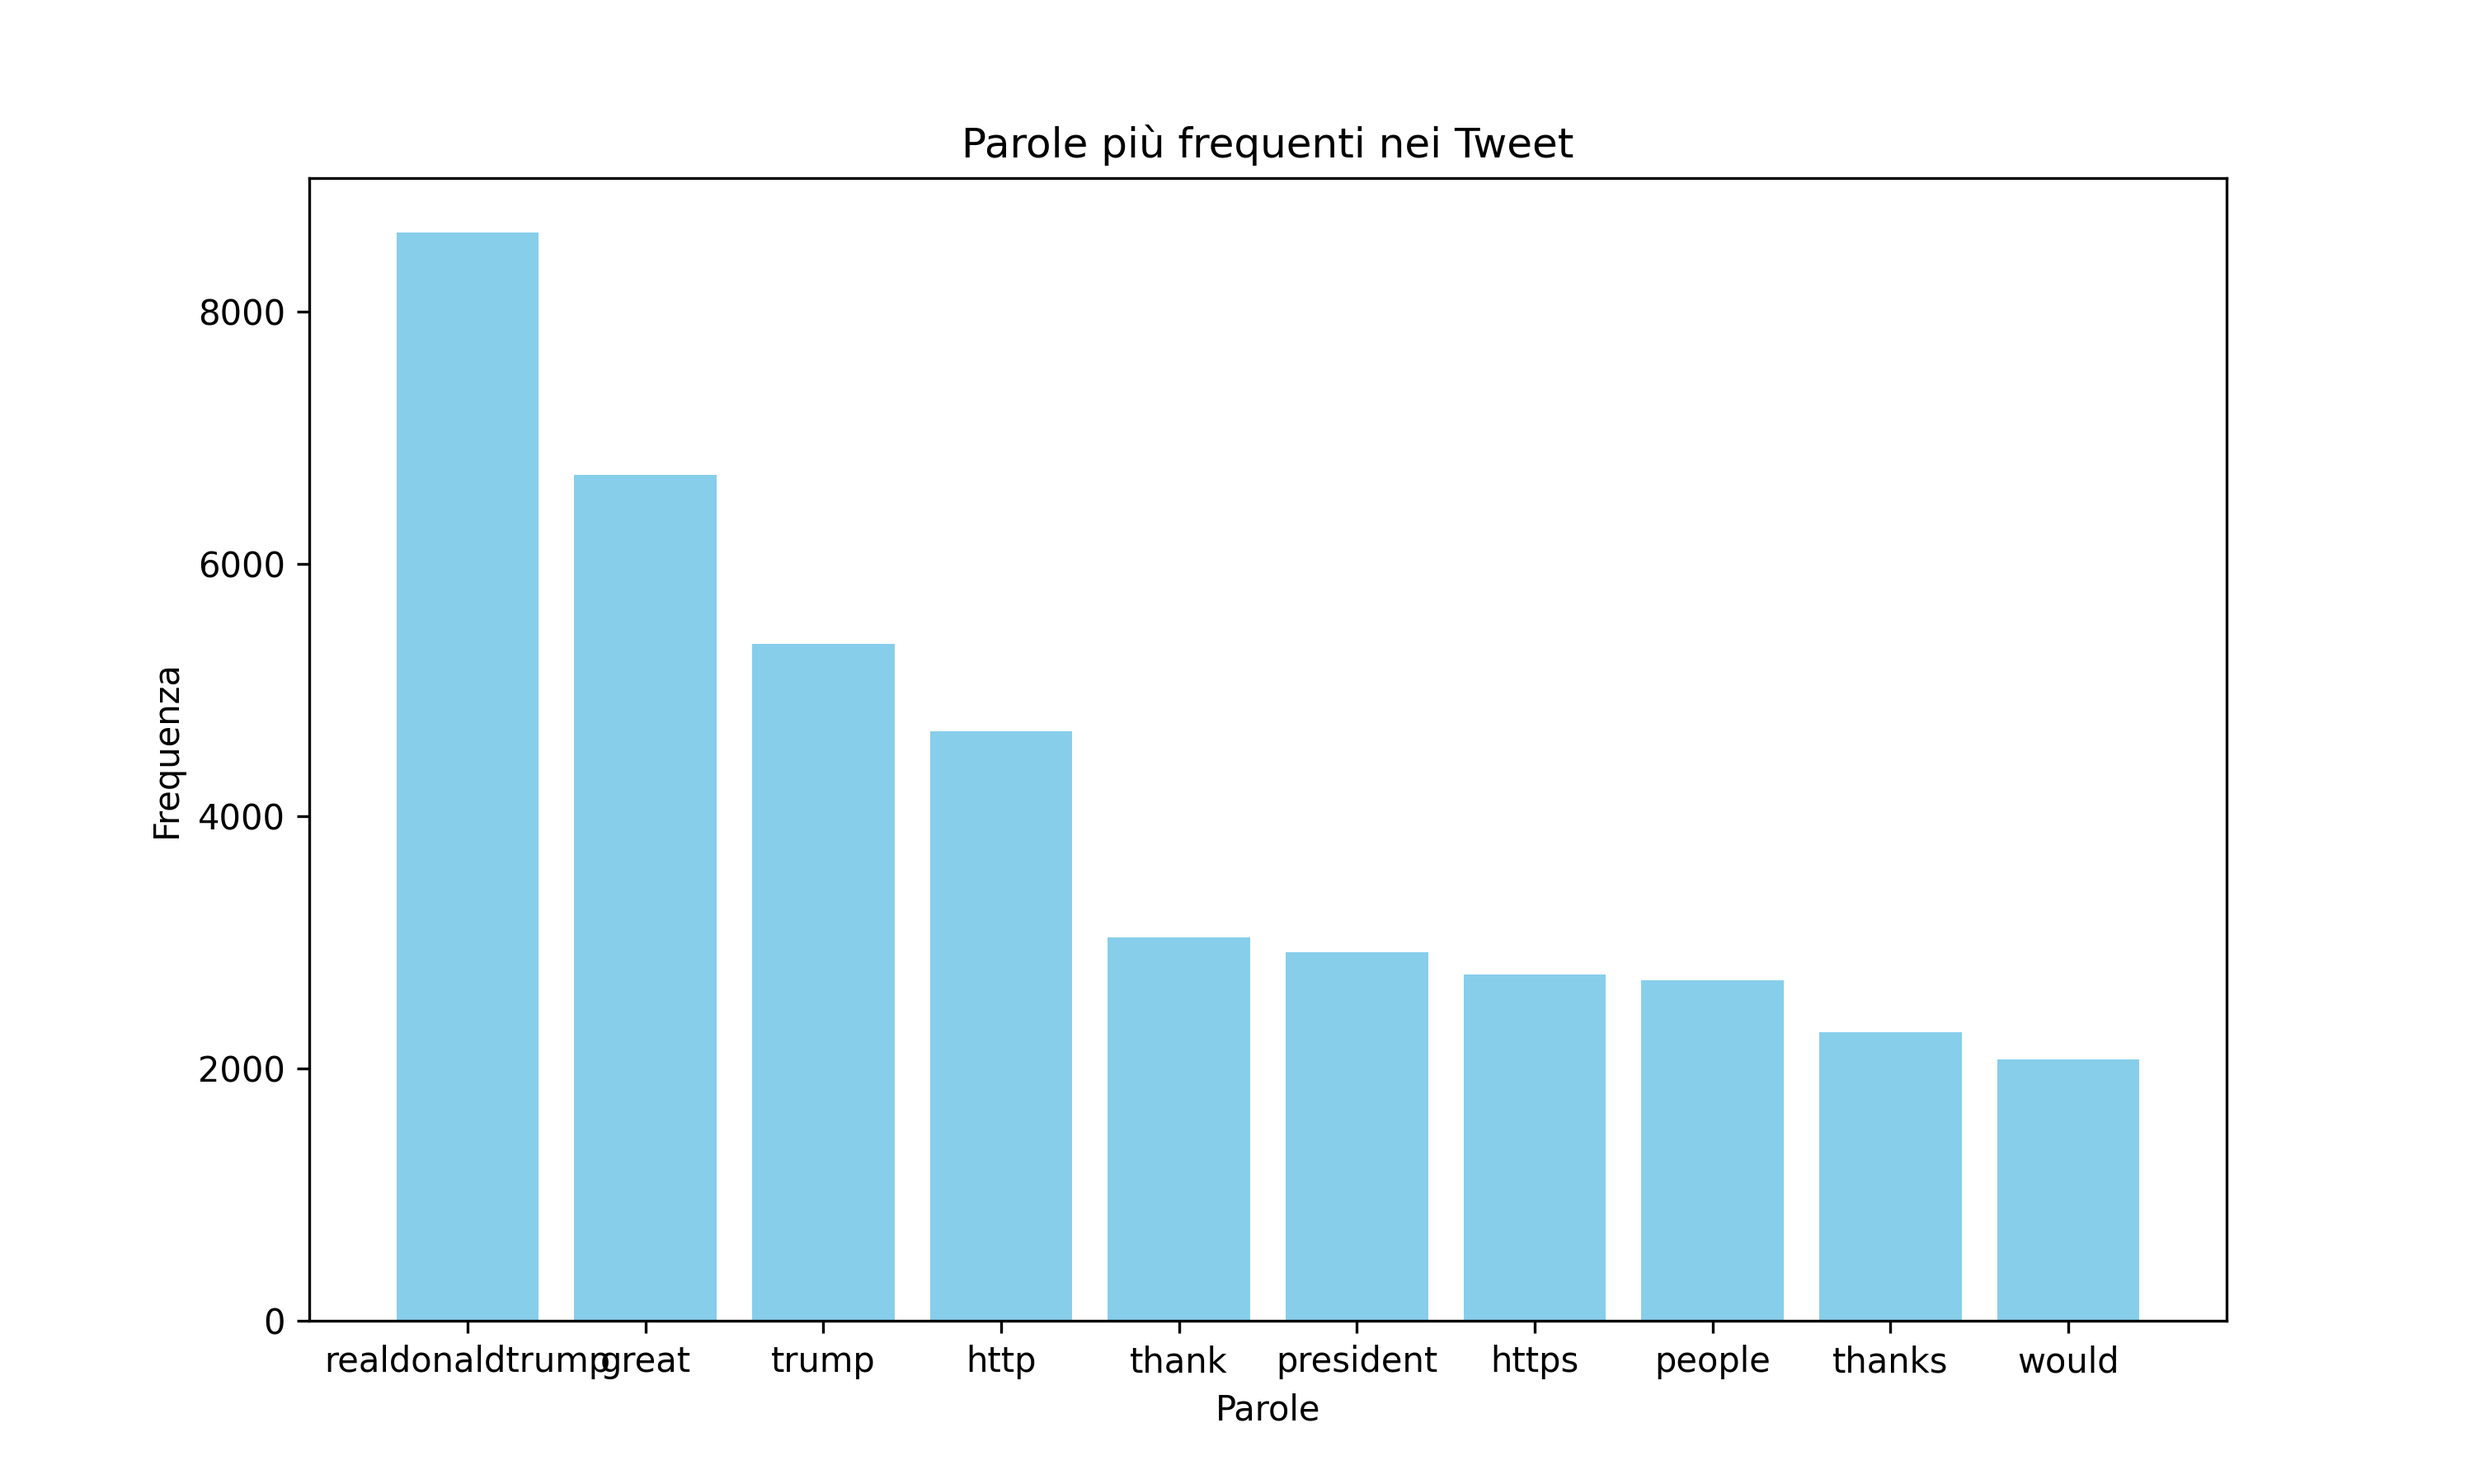
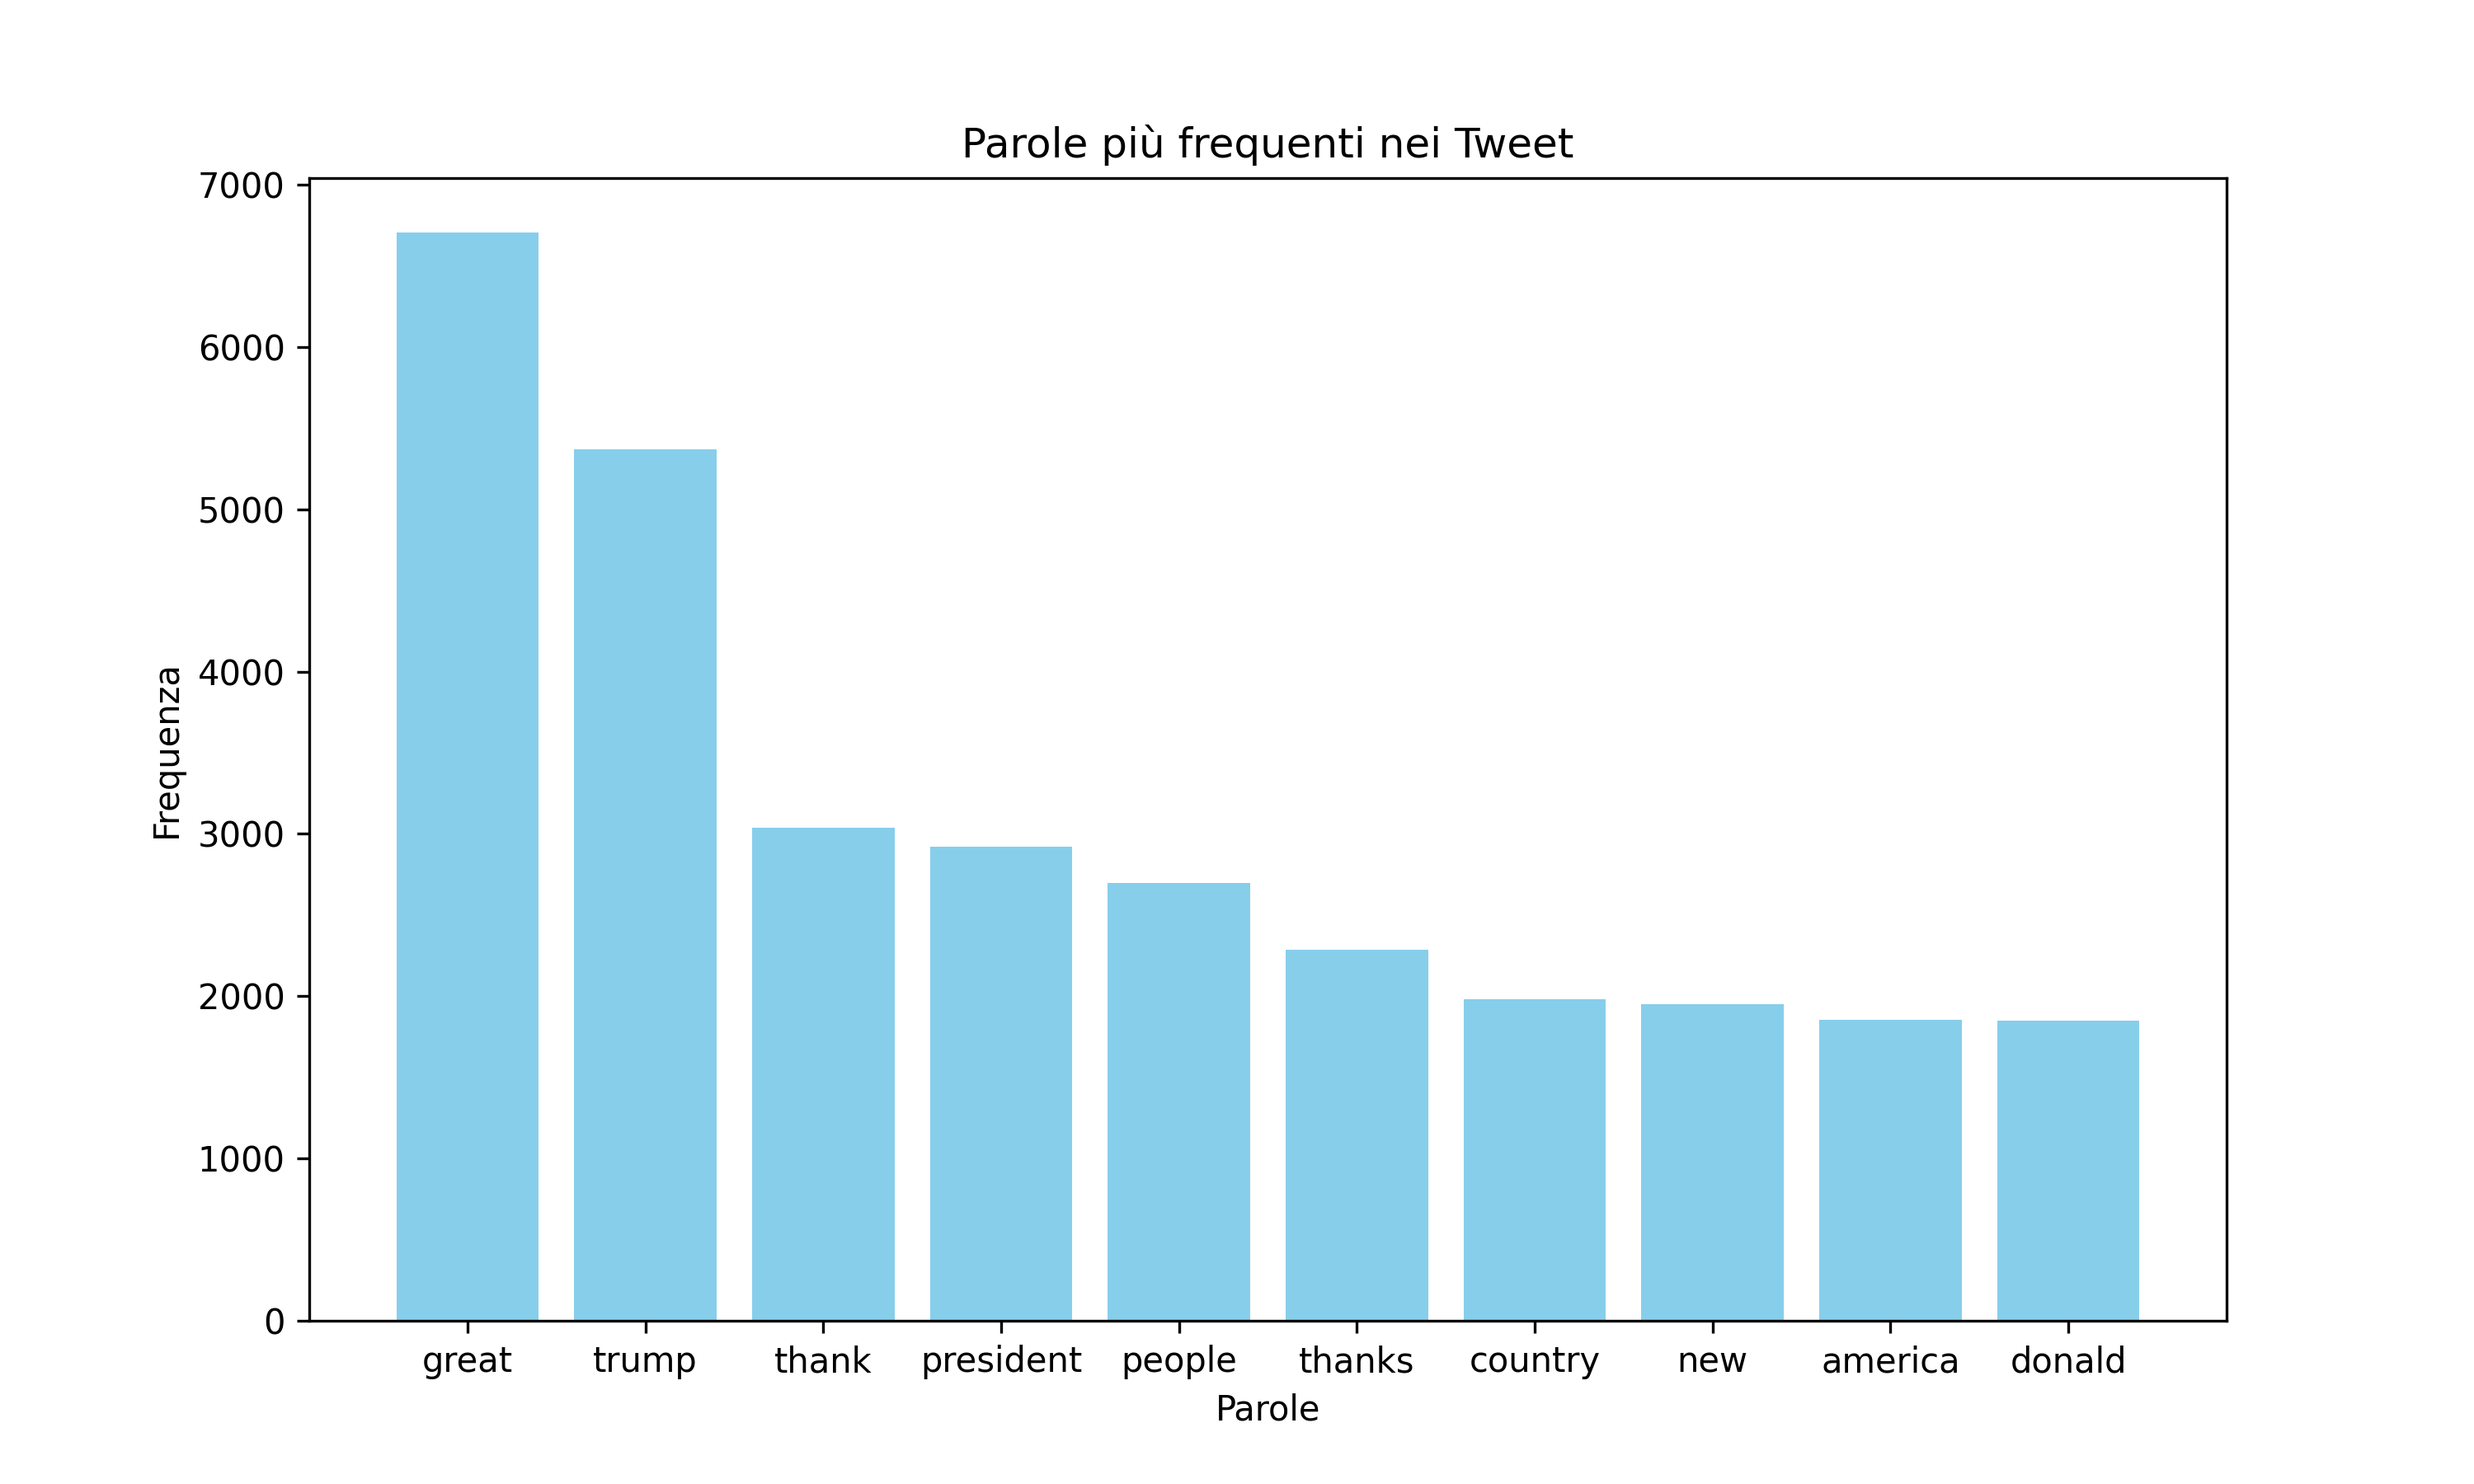
Minor tweaks

diff --git a/WordsCount.py b/WordsCount.py
@@ -26,7 +26,7 @@ df_restricted['cleaned_words'] = df_restricted['content'].apply(clean_text)
 all_words = [word for words in df_restricted['cleaned_words'] for word in words]
 stop_words = set(stopwords.words('english'))
 all_words = [word for word in all_words if word not in stop_words]
-
+all_words = [word for word in all_words if word != 'realdonaldtrump' and word != 'http' and word != 'https' and word != 'would' and word != 'get']
 '''Studio la frequenza e stampo le parole con frequenza'''
 
 word_freq = Counter(all_words)
